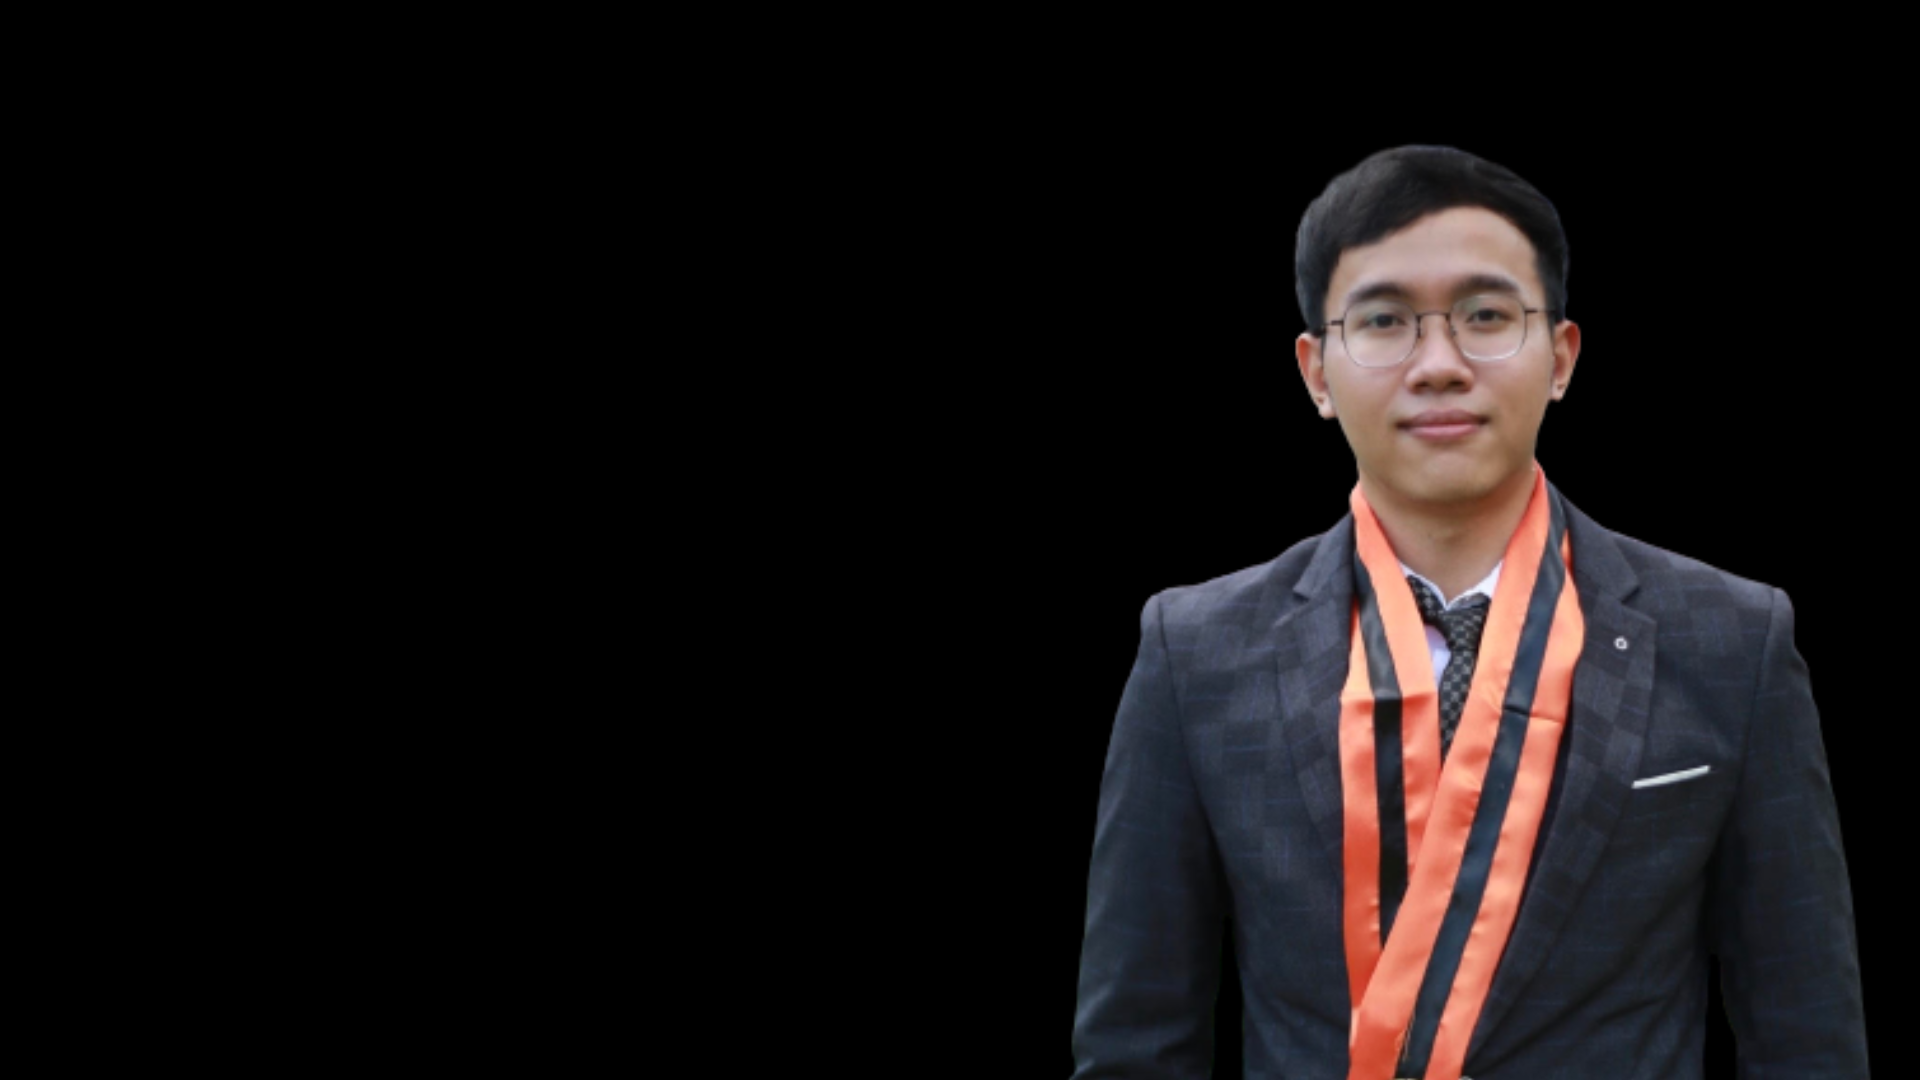
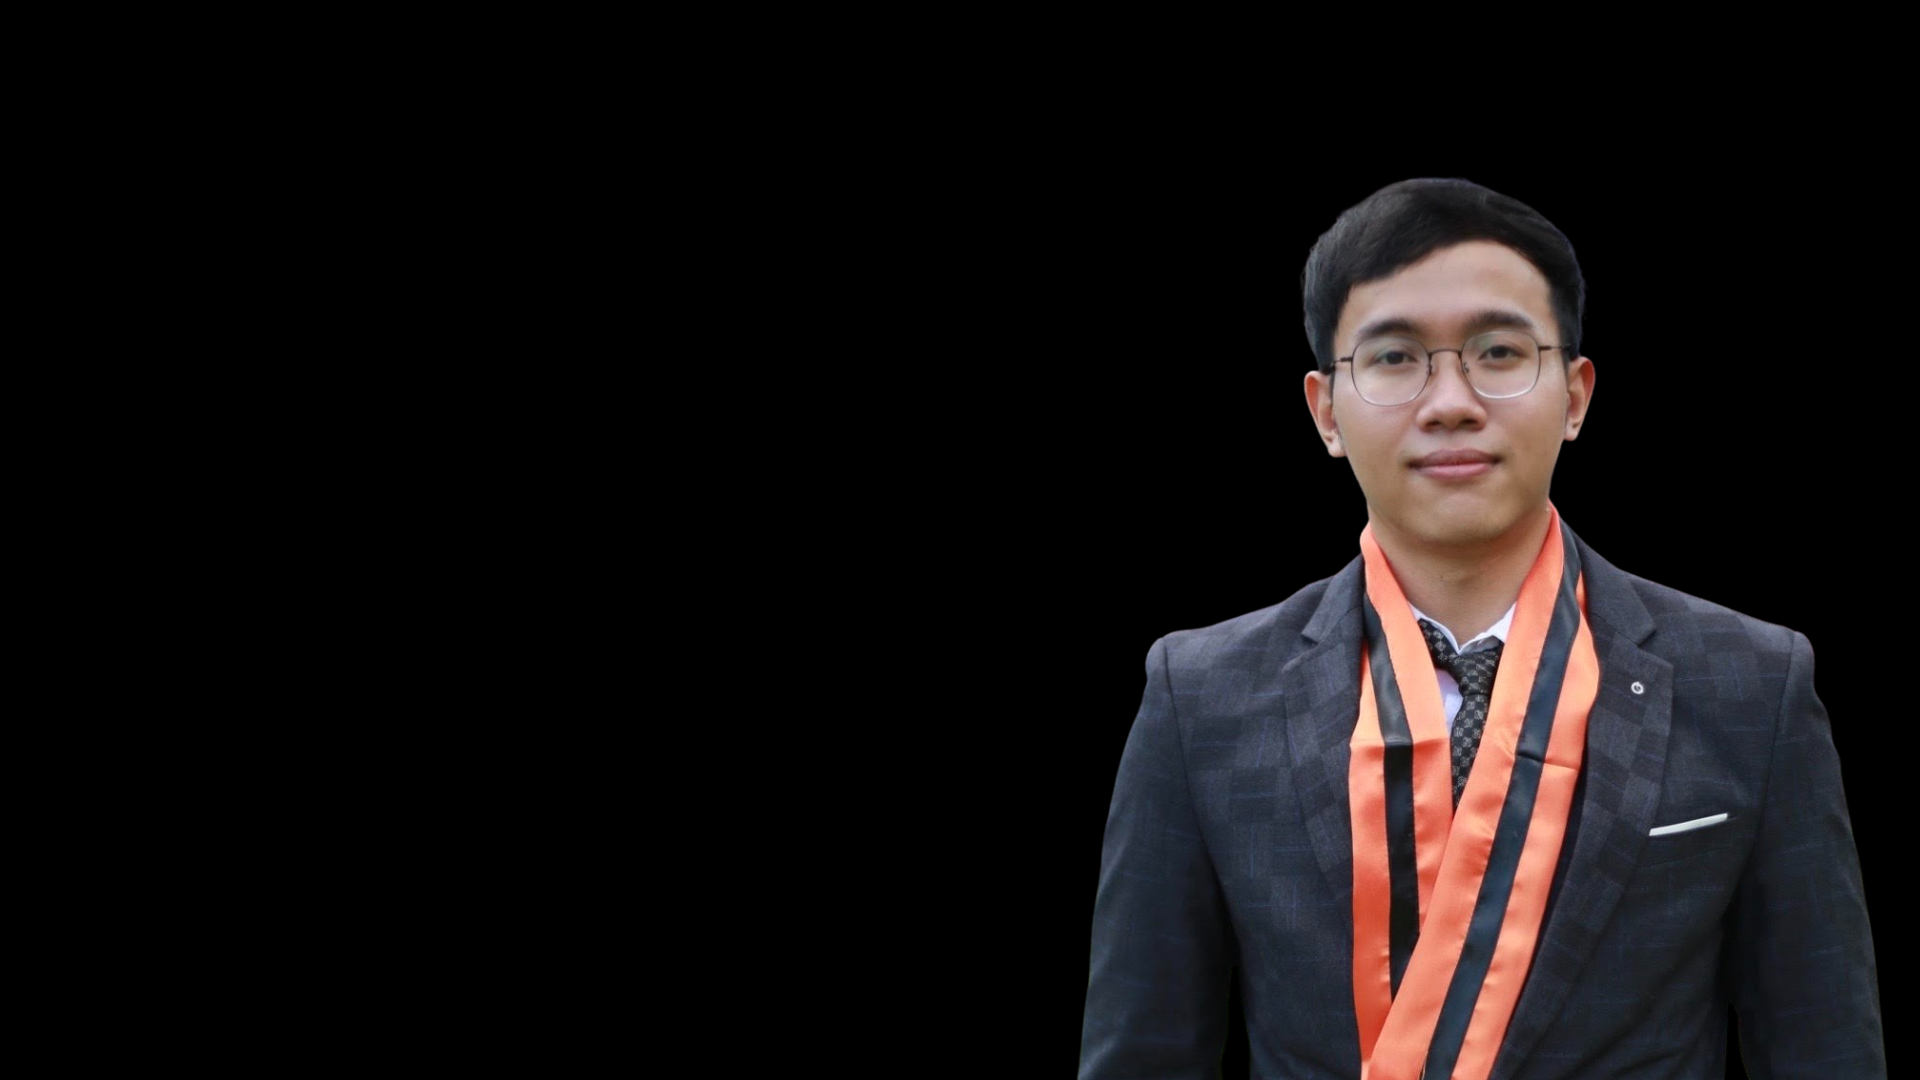
Created about me section, update images

Changed region(s): [[0.5312, 0.1222, 1.0, 1.0], [0.625, 0.7639, 0.6562, 0.825]]

diff --git a/index.html b/index.html
@@ -29,6 +29,53 @@
           </div>
       </div>
   </div>
+<!-- -----------about---------- -->
+  <div id="about">
+      <div class="container">
+          <div class="row">
+              <div class="about-col-1">
+                  <img src="images/user.png">
+              </div>
+              <div class="about-col-2">
+                  <h1 class="sub-title">About Me</h1>
+                  <p>Hello! I'm Yuna, a skilled React Full Stack Web Developer with a passion for technology and a strong desire to learn. I'm eager to connect with professionals and explore opportunities where I can contribute my expertise and enthusiasm to impactful projects.Hello! I'm Yuna, a skilled React Full Stack Web Developer with a passion for technology and a strong desire to learn. With expertise in data science, machine learning, and web development, I bring a versatile skill set to the table. Currently enrolled at Sigma School, a coding institution focused on practical learning, I'm continuously sharpening my abilities in full-stack software development with a specialization in React.</p>
+                  <br>
+                  <p>I thrive on developing innovative solutions that merge analytical thinking with creative problem-solving. My goal as a React Full Stack Web Developer is to excel in creating exceptional user experiences and drive positive change in the tech landscape. Proficient in HTML/CSS, JavaScript, React, SQL, Express, and Firebase, I specialize in building robust and scalable web applications. I emphasize crafting engaging user interfaces, optimizing performance, and ensuring seamless functionality across platforms.</p>
+                  <br>
+                  <p>I'm enthusiastic about connecting with like-minded professionals, industry experts, and innovative companies who share my dedication to leveraging technology for positive change. Fell free to contact me and explore exciting opportunities where I can bring my skills and passion to your projects.</p>
+                  <div class="tab-titles">
+                      <p class="tab-links active-link" onclick="opentab('skills')">Skills</p>
+                      <p class="tab-links" onclick="opentab('experience')">Experience</p>
+                      <p class="tab-links" onclick="opentab('education')">Education</p>
+                  </div>
+                  <div class="tab-contents active-tab" id="skills">
+                      <ul>
+                          <li><span>Coding Fundamentals</span><br>HTML, CSS, JavaScript, DOM Manipulation, Computational Thinking, and APIs.</li>
+                          <li><span>Frontend Development</span><br>Vue.js, Pinia, and TailwindCSS.</li>
+                          <li><span>Backend Development</span><br>Node.js, Express.js, MongoDb, AWS Fundamentals, Testing, and Deployment.</li>
+                          <li><span>Mobile App Development</span><br>Flutter, Firebase, and UI Design.</li>
+                          <li><span>Data Science</span><br>Python, SQL, Data Analytics, Machine Learning, and Deep Learning.</li>
+                      </ul>
+                  </div>
+                  <div class="tab-contents" id="experience">
+                      <ul>
+                          <li><span>2023 - Current</span><br>Student of Full Stack Software Developer at Sigma School.</li>
+                          <li><span>2021 - 2023</span><br>Special Projects and Operations Manager at Mimpi Sleep.</li>
+                          <li><span>2020 - 2021</span><br>Logistic Operations Specialist at Mimpi Sleep.</li>
+                          <li><span>2019 - 2020</span><br>Accountant Internship at PT Puri Indah Jaya.</li>
+                      </ul>
+                  </div>
+                  <div class="tab-contents" id="education">
+                      <ul>
+                          <li><span>2023</span><br>Full Stack Software Developer at Sigma School.</li>
+                          <li><span>2022</span><br>Data Scientist Training at Binar Academy.</li>
+                          <li><span>2014</span><br>Bachelor of Economics from Udayana University.</li>
+                      </ul>
+                  </div>
+              </div>
+          </div>
+      </div>
+  </div>
   <script src="script.js"></script>
 </body>
 

diff --git a/style.css b/style.css
@@ -71,3 +71,71 @@ nav ul li a:hover::after{
 .header-text h1 span{
     color: #ff004f;
 }
+/* -----------about--------------- */
+#about{
+    padding: 80px 0;
+    color: #ababab;
+}
+.row{
+    display: flex;
+    justify-content: space-between;
+    flex-wrap: wrap;
+}
+
+.about-col-1{
+    flex-basis: 35%;
+}
+.about-col-1 img{
+    width: 100%;
+    border-radius: 15px;
+}
+.about-col-2{
+    flex-basis: 60%;
+}
+
+.sub-title{
+    font-size: 60px;
+    font-weight: 600;
+    color: #fff;
+}
+
+.tab-titles{
+    display: flex;
+    margin: 20px 0 40px;
+}
+.tab-links{
+    margin-right: 50px;
+    font-size: 18px;
+    font-weight: 500;
+    cursor: pointer;
+    position: relative;
+}
+.tab-links::after{
+    content: '';
+    width: 0;
+    height: 3px;
+    background: #ff004f;
+    position: absolute;
+    left: 0;
+    bottom: -8px;
+    transition: 0.5s;
+}
+
+.tab-links.active-link::after{
+    width: 50%;
+}
+
+.tab-contents ul li{
+    list-style: none;
+    margin: 10px 0;
+}
+.tab-contents ul li span{
+    color: #b54769;
+    font-size: 14px;
+}
+.tab-contents{
+    display: none;
+}
+.tab-contents.active-tab{
+    display: block;
+}
